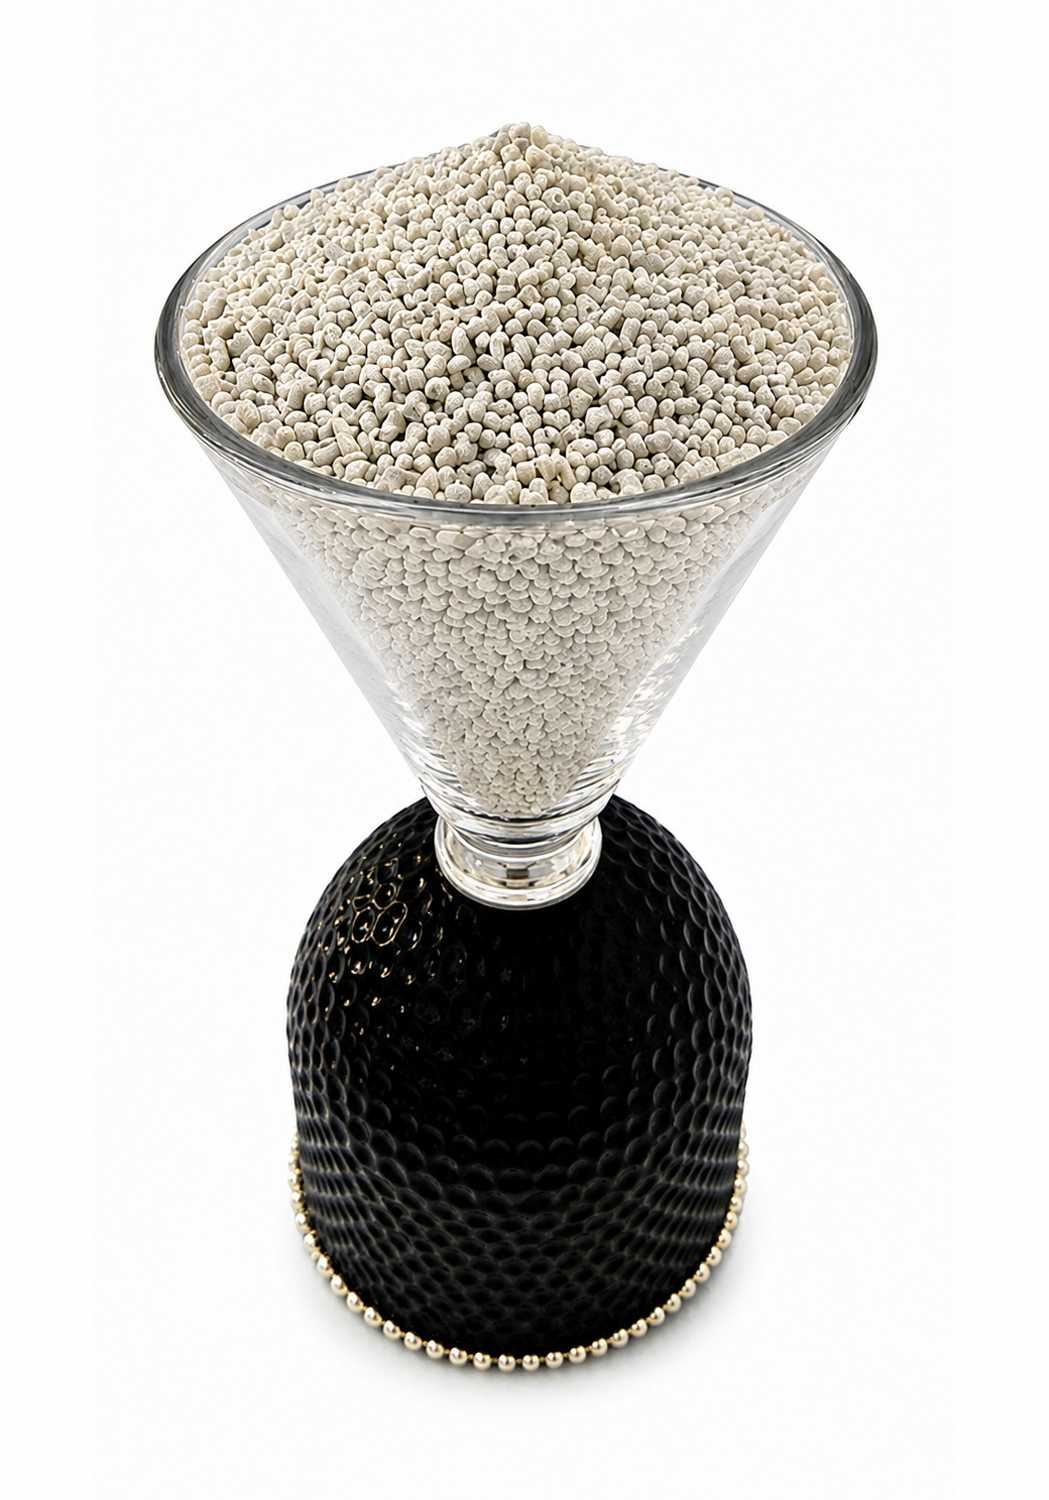
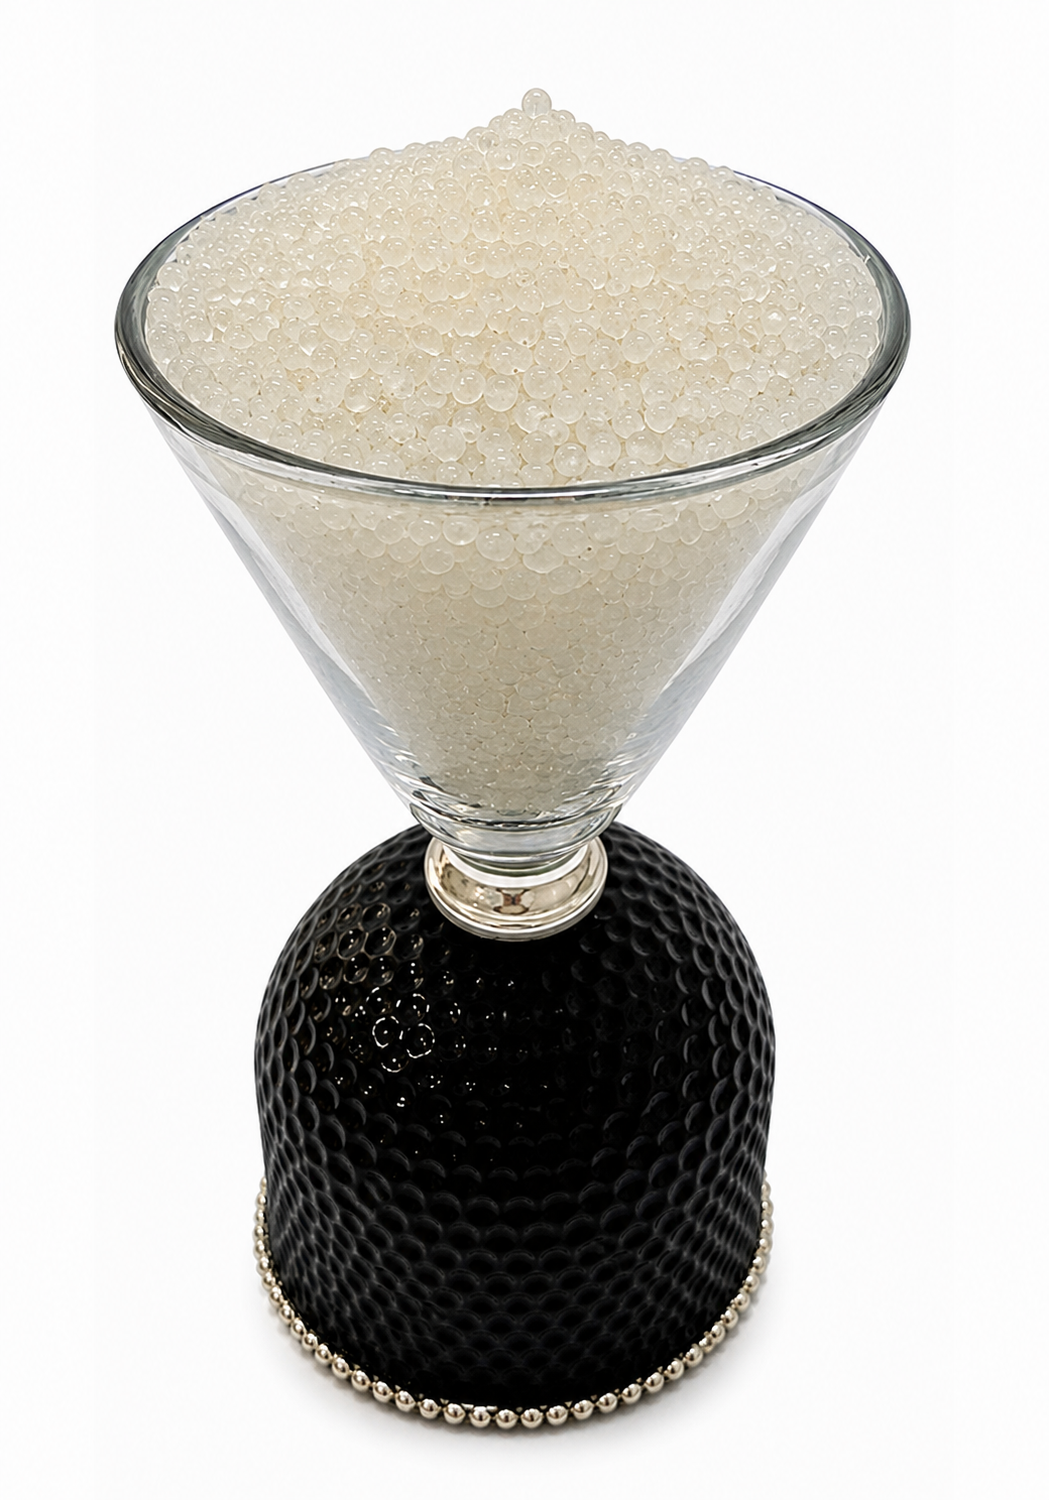
final changes

Changed region(s): [[0.0915, 0.0613, 0.8847, 0.9813]]

diff --git a/public/css/style.css b/public/css/style.css
@@ -4979,7 +4979,7 @@ body.admin-bar .te-header-menu-area.te-sticky_menu {
     }
 }
 
-.latest-service-card .btn-wrapper {
+/* .latest-service-card .btn-wrapper {
     width: 190px;
     -ms-flex-negative: 0;
     flex-shrink: 0;
@@ -4999,6 +4999,23 @@ body.admin-bar .te-header-menu-area.te-sticky_menu {
 
 .latest-service-card .btn-wrapper svg {
     transition: transform 0.3s ease;
+} */
+ .latest-service-card .btn-wrapper {
+    width: 190px;
+    flex-shrink: 0;
+    display: flex;
+    flex-direction: column; /* Stack text and SVG vertically */
+    align-items: center;
+    justify-content: center;
+    gap: 10px; /* Space between text and arrow */
+    align-self: stretch;
+    background-color: rgb(0 0 0 / 5%);
+    text-decoration: none;
+}
+
+.latest-service-card .btn-wrapper svg {
+    transition: transform 0.3s ease;
+    transform: rotate(90deg); /* Makes the right arrow point down */
 }
 
 /* when card OR title is hovered */
@@ -11054,8 +11071,8 @@ ul.children {
     justify-content: flex-end;
     -webkit-transform: scale(0.75);
     transform: scale(0.75);
-    opacity: 0;
-    visibility: hidden;
+    /* opacity: 0; */opacity: 1;
+    /* visibility: hidden; */visibility: visible;
     -webkit-transition: all 0.5s ease-out;
     transition: all 0.5s ease-out;
 }
